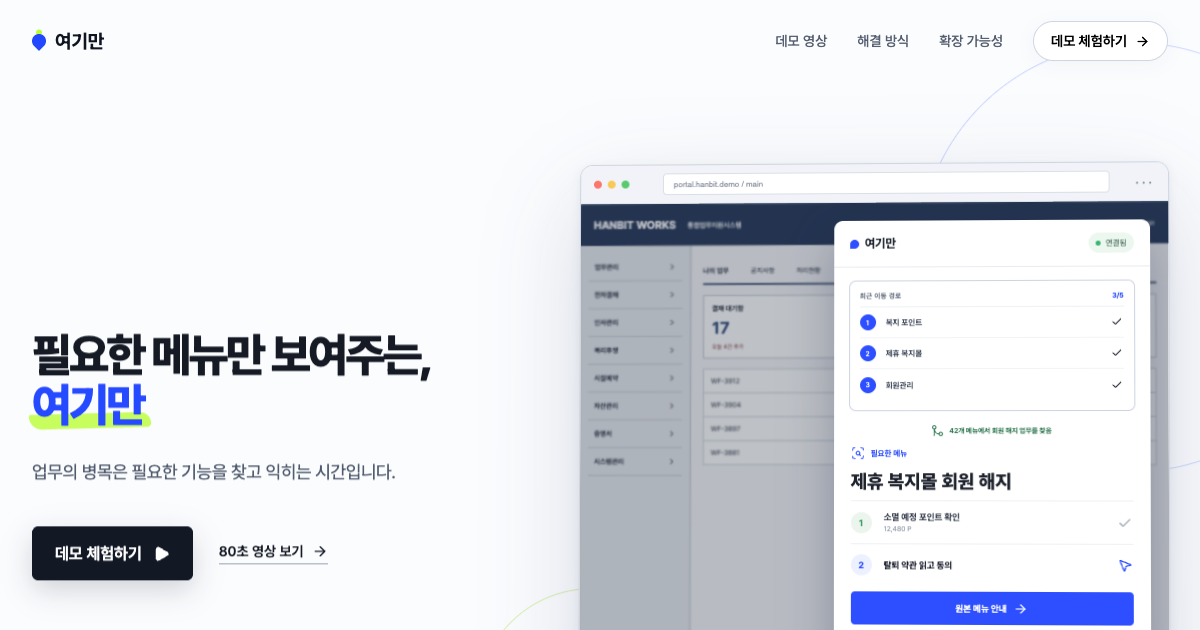
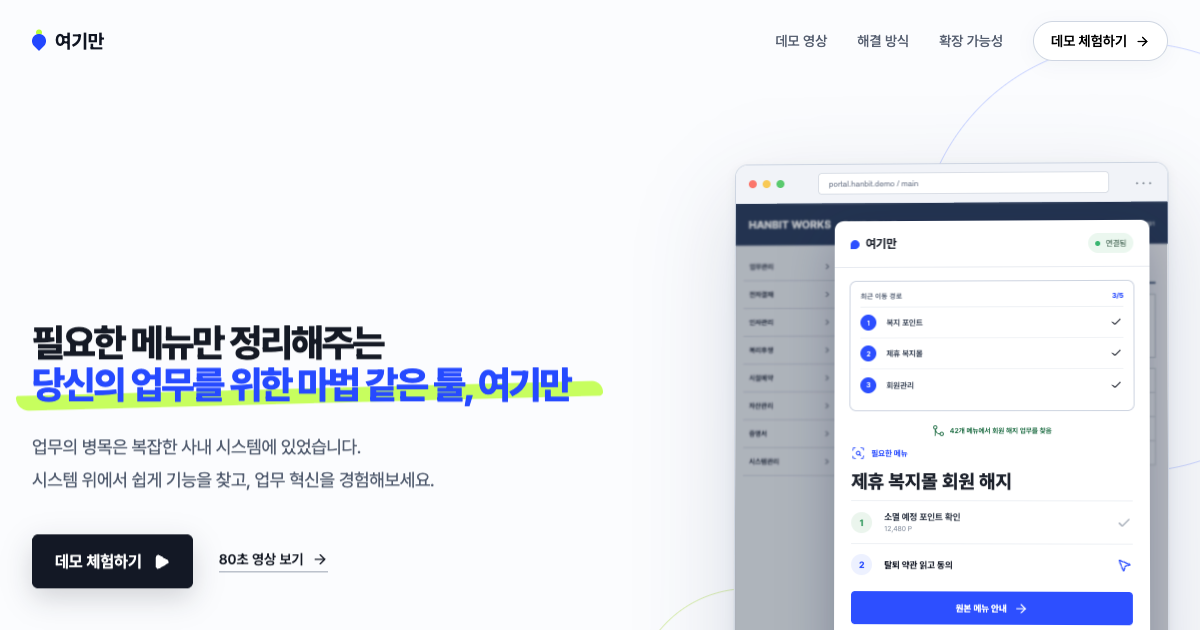
Strengthen landing message and expansion story

diff --git a/src/styles.css b/src/styles.css
@@ -24,6 +24,7 @@ a { color: inherit; text-decoration: none; }
 
 .landing { overflow: hidden; background: #fbfcfe; }
 .landing h1,.landing h2,.landing h3,.landing p { word-break: keep-all; }
+.keep-together { white-space: nowrap; }
 .landing-nav {
   width: min(1360px, calc(100% - 64px)); height: 82px; margin: 0 auto;
   display: flex; align-items: center; justify-content: space-between; position: relative; z-index: 20;
@@ -36,7 +37,7 @@ a { color: inherit; text-decoration: none; }
 .nav-demo { height: 40px; border: 1px solid #cfd6e2; background: #fff; border-radius: 99px; padding: 0 17px; display: flex; align-items: center; gap: 8px; font-weight: 600; box-shadow: 0 4px 18px rgba(23, 37, 69, .04); transition: transform .2s, border-color .2s; }
 .nav-demo:hover { transform: translateY(-2px); border-color: #9ba8bc; }
 
-.hero-section { width: min(1360px, calc(100% - 64px)); min-height: 760px; margin: 0 auto; display: grid; grid-template-columns: .96fr 1.14fr; gap: 48px; align-items: center; padding: 64px 0 100px; }
+.hero-section { width: min(1360px, calc(100% - 64px)); min-height: 760px; margin: 0 auto; display: grid; grid-template-columns: 1.2fr .8fr; gap: 48px; align-items: center; padding: 64px 0 100px; }
 .hero-kicker, .section-index { font-size: 12px; line-height: 1; font-weight: 700; letter-spacing: .13em; color: var(--blue); text-transform: uppercase; }
 .hero-copy h1 { font-family: inherit; margin: 22px 0 24px; font-size: clamp(48px, 4.55vw, 70px); line-height: 1.1; letter-spacing: -.055em; font-weight: 800; white-space: nowrap; }
 .hero-copy h1 span { position: relative; z-index: 1; color: var(--blue); }
@@ -127,15 +128,16 @@ footer { min-height: 118px; border-top: 1px solid #dce2eb; width: min(1360px, ca
 footer p { margin: 0; }footer small { justify-self: end; }
 
 /* Landing: problem → solution → work map */
-.hero-copy h1 { font-size: clamp(46px, 3.8vw, 58px); white-space: nowrap; }
+.hero-copy h1 { font-size: clamp(38px, 3.05vw, 44px); white-space: nowrap; }
 .mobile-break { display: none; }
 .hero-copy h1 span::after { height: 15px; }
 .hero-description { max-width: none; white-space: nowrap; }
+.hero-description span { display: block; }
 .demo-video-section,.friction-section,.focus-section,.learning-section,.platform-section { width: min(1260px, calc(100% - 64px)); margin: 0 auto; }
 
 .demo-video-section { padding: 95px 0 140px; border-top: 1px solid #dce2eb; }
 .demo-video-heading { margin-bottom: 50px; }
-.demo-video-heading h2 { margin: 0; font-size: clamp(40px, 3.7vw, 58px); line-height: 1.17; letter-spacing: -.052em; font-weight: 780; }
+.demo-video-heading h2 { margin: 0; font-size: clamp(38px, 3.2vw, 48px); line-height: 1.17; letter-spacing: -.052em; font-weight: 780; white-space: nowrap; }
 .demo-video-heading p { margin: 19px 0 0; color: #596476; font-size: 17px; line-height: 1.9; white-space: nowrap; }
 .demo-video-frame { padding: 12px; border: 1px solid #2b3548; border-radius: 16px; background: #111723; box-shadow: 0 30px 70px rgba(20, 30, 51, .18); }
 .demo-video-frame video { display: block; width: 100%; height: auto; aspect-ratio: 16 / 10; border-radius: 8px; background: #090d15; }
@@ -147,7 +149,7 @@ footer p { margin: 0; }footer small { justify-self: end; }
 .friction-copy p,.focus-heading p,.learning-heading p,.platform-heading p { white-space: nowrap; }
 .friction-proof { border-left: 4px solid var(--blue); padding: 8px 0 8px 32px; }
 .friction-proof strong { display: block; color: var(--blue); font-size: clamp(68px, 7vw, 104px); line-height: .9; letter-spacing: -.07em; }
-.friction-proof p { max-width: 400px; margin: 24px 0 15px; color: #30394a; font-size: 18px; line-height: 1.55; font-weight: 650; }
+.friction-proof p { max-width: 500px; margin: 24px 0 0; color: #30394a; font-size: 17px; line-height: 1.6; font-weight: 650; }
 .friction-proof a { display: inline-flex; align-items: center; gap: 6px; color: #6e7889; font-size: 11px; border-bottom: 1px solid #bac2cf; padding-bottom: 3px; }
 
 .focus-section { padding: 140px 0 150px; }
@@ -180,7 +182,7 @@ footer p { margin: 0; }footer small { justify-self: end; }
 .control-note { margin: 28px 0 0; color: #3f4a5d; font-size: 17px; line-height: 1.7; text-align: center; font-weight: 600; }
 
 .learning-section { width: min(1360px, calc(100% - 64px)); padding: 112px max(50px, 6vw) 90px; color: #fff; background: #111723; }
-.learning-heading { display: grid; grid-template-columns: 1fr .82fr; gap: 90px; align-items: end; }
+.learning-heading { display: block; }
 .learning-heading p { color: #b7c0cf; }
 .learning-flow { margin-top: 72px; display: grid; grid-template-columns: repeat(4,1fr); border: 1px solid #3b4555; }
 .learning-flow article { min-height: 190px; position: relative; padding: 31px 27px; border-right: 1px solid #3b4555; }
@@ -200,7 +202,7 @@ footer p { margin: 0; }footer small { justify-self: end; }
 .platform-list article > svg { color: var(--blue); }
 .platform-list span { display: inline-block; color: var(--blue); font-size: 10px; font-weight: 750; letter-spacing: .06em; }
 .platform-list h3 { margin: 8px 0 9px; font-size: 22px; }
-.platform-list p { margin: 0; color: #687386; font-size: 14px; line-height: 1.75; }
+.platform-list p { margin: 0; color: #687386; font-size: 16px; line-height: 1.75; }
 
 /* Demo frame */
 .demo-shell { background: #e8ecf2; height: 100vh; min-width: 1100px; overflow: hidden; font-family: 'Pretendard Variable', Pretendard, sans-serif; }
@@ -294,6 +296,7 @@ footer p { margin: 0; }footer small { justify-self: end; }
   .statement-copy { grid-template-columns: 1fr; gap: 30px; }.how-section { grid-template-columns: 1fr; gap: 70px; }.handoff-line { grid-template-columns: 1fr 110px 1fr; }
   .friction-section,.focus-heading,.learning-heading,.platform-section { grid-template-columns: 1fr; gap: 54px; }
   .demo-video-heading p,.friction-copy p,.focus-heading p,.learning-heading p,.platform-heading p { white-space: normal; }
+  .demo-video-heading h2 { white-space: normal; }
   .learning-section { padding-left: 50px; padding-right: 50px; }
   .learning-flow { grid-template-columns: repeat(2,1fr); }.learning-flow article:nth-child(2) { border-right: 0; }.learning-flow article:nth-child(-n+2) { border-bottom: 1px solid #3b4555; }
 }
@@ -301,13 +304,14 @@ footer p { margin: 0; }footer small { justify-self: end; }
   .landing-nav { height: 70px; }.nav-links a { display: none; }.hero-section { width: calc(100% - 36px); padding: 55px 0 80px; min-height: 0; }.hero-copy h1 { font-size: 44px; }.hero-description { font-size: 15px; }.hero-actions { flex-direction: column; gap: 18px; }.browser-body { height: 420px; }.preview-panel { width: 75%; }.legacy-mini-body { grid-template-columns: 82px 1fr; }.human-badge { right: -4px; }
   .statement-section,.how-section,.access-section,.final-cta-section,.demo-video-section,.friction-section,.focus-section,.learning-section,.platform-section { width: calc(100% - 36px); }.statement-section,.how-section { padding: 95px 0; }.statement-copy h2,.how-heading h2,.access-section h2,.final-cta-section h2 { font-size: 38px; }.handoff-line { grid-template-columns: 1fr; }.baton { height: 64px; transform: none; }.baton > * { transform: none; }.role { padding: 28px 15px; }.access-section { padding: 70px 30px; }.final-cta-section { flex-direction: column; align-items: flex-start; min-height: 480px; justify-content: center; }.final-cta { height: 62px; }
   .final-cta-section h2 span { white-space: normal; }
-  .hero-copy h1 { font-size: 31px; line-height: 1.18; }.hero-copy h1 span { font-size: 1.35em; }.hero-copy h1 span::after { height: 10px; }.hero-description { white-space: normal; }.mobile-break { display: block; }
+  .hero-copy h1 { font-size: 29px; line-height: 1.2; }.hero-copy h1 span { font-size: 1.08em; }.hero-copy h1 span::after { height: 10px; }.hero-description { white-space: normal; }.hero-description span { margin-bottom: 5px; }.mobile-break { display: block; }
   .demo-video-section,.friction-section,.focus-section,.platform-section { padding: 95px 0; }.demo-video-heading h2,.friction-copy h2,.focus-heading h2,.learning-heading h2,.platform-heading h2 { font-size: 38px; }.demo-video-heading p,.friction-copy p,.focus-heading p,.learning-heading p,.platform-heading p { font-size: 15px; }
   .demo-video-heading { margin-bottom: 32px; }.demo-video-frame { padding: 5px; border-radius: 10px; }.demo-video-frame video { border-radius: 6px; }
   .friction-proof { padding-left: 22px; }.friction-proof strong { font-size: 76px; }
   .focus-compare { grid-template-columns: 1fr; gap: 18px; margin-top: 50px; }.compare-arrow { transform: rotate(90deg); }.menu-noise,.menu-focus { min-height: 0; padding: 24px; }.noise-list { grid-template-columns: repeat(2,1fr); }
   .control-policy { grid-template-columns: 1fr; }.control-policy > div { min-height: 100px; padding: 18px; }.policy-arrow { transform: rotate(90deg); }.control-note { text-align: left; line-height: 1.7; }
   .learning-section { padding: 82px 25px 60px; }.learning-flow { grid-template-columns: 1fr; margin-top: 50px; }.learning-flow article { min-height: 175px; border-right: 0; border-bottom: 1px solid #3b4555; }.learning-flow article:nth-child(2) { border-right: 0; }.learning-flow article:last-child { border-bottom: 0; }.learning-insight { grid-template-columns: 35px 1fr; padding: 21px; }
+  .learning-heading h2 { font-size: 32px; }
   .platform-section { gap: 40px; }.platform-list article { padding-left: 8px; padding-right: 8px; }
   footer { width: calc(100% - 36px); grid-template-columns: 1fr; gap: 9px; padding: 30px 0; }footer small { justify-self: start; }.browser-frame { transform: none; }
 }

diff --git a/src/Landing.tsx b/src/Landing.tsx
@@ -4,7 +4,6 @@ import {
   Check,
   ChevronRight,
   Database,
-  ExternalLink,
   GitMerge,
   Globe2,
   Monitor,
@@ -71,11 +70,12 @@ export function Landing({ onDemo }: LandingProps) {
       <section className="hero-section">
         <div className="hero-copy hero-reveal">
           <h1>
-            필요한 메뉴만 보여주는,
-            <br /><span>여기만</span>
+            필요한 메뉴만 정리해주는
+            <br /><span>당신의 업무를 위한<br className="mobile-break" /> 마법 같은 툴, 여기만</span>
           </h1>
           <p className="hero-description">
-            업무의 병목은 필요한 기능을 찾고 익히는 시간입니다.
+            <span>업무의 병목은 복잡한 사내 시스템에 있었습니다.</span>
+            <span>시스템 위에서 쉽게 기능을 찾고, 업무 혁신을 경험해보세요.</span>
           </p>
           <div className="hero-actions">
             <button className="primary-cta" onClick={onDemo}>
@@ -153,8 +153,7 @@ export function Landing({ onDemo }: LandingProps) {
 
       <section className="demo-video-section" id="demo-video">
         <div className="demo-video-heading">
-          <h2>80초 데모를 확인하세요.</h2>
-          <p>사이트 탐색부터 회원 해지 목적 발견, 원본 약관 확인과 최종 신청까지 전체 POC 과정을 80초에 담았습니다.</p>
+          <h2>80초 만에 마법같이 간편해지는 데모를 확인해보세요.</h2>
         </div>
         <div className="demo-video-frame">
           <video controls playsInline preload="metadata" poster={demoPoster} width="1440" height="900" aria-label="여기만 회원 해지 POC 데모 영상">
@@ -166,15 +165,12 @@ export function Landing({ onDemo }: LandingProps) {
 
       <section className="friction-section" id="problem">
         <div className="friction-copy">
-          <h2>신입사원과 숙련자 모두에게<br />복잡한 사내 시스템은 어려운 벽입니다.</h2>
-          <p>익숙하지 않은 업무를 처리할 때마다 메뉴 위치와 순서를 다시 찾아야 합니다.</p>
+          <h2>신입사원과 숙련자 모두에게<br />복잡한 사내 시스템은<br />어려운 벽입니다.</h2>
+          <p>매일 접속하는 시스템도 복잡하다면 여전히 업무를 가로막는 병목이 됩니다.</p>
         </div>
         <div className="friction-proof">
           <strong>1,100회+</strong>
-          <p>업무를 하며 하루 평균 앱 사이를 오간 횟수입니다.</p>
-          <a href="https://www.pega.com/about/news/press-releases/research-reveals-employees-switch-apps-over-1100-times-day" target="_blank" rel="noreferrer">
-            Pega, 약 500만 시간 데스크톱 활동 분석 <ExternalLink size={13} />
-          </a>
+          <p>전 세계 직장인들이 업무를 위해 복잡한 시스템 속에서 하루 동안 클릭한 횟수입니다.</p>
         </div>
       </section>
 
@@ -214,36 +210,35 @@ export function Landing({ onDemo }: LandingProps) {
 
       <section className="learning-section" id="learning">
         <div className="learning-heading">
-          <h2>사용 기록이 쌓일수록<br />복잡한 업무용 시스템이 쉬워집니다.</h2>
-          <p>여러 사람의 사용 기록을 모아 필요한 기능을 더 빨리 찾습니다.</p>
+          <h2>여러 사람들의 사용 기록이 쌓일수록<br />복잡한 <span className="keep-together">시스템이 더 쉬워집니다.</span></h2>
+          <p>사람들이 자주 사용하는 메뉴와 처리 방법을 학습해 더 쉽고 빠른 업무 환경을 만듭니다.</p>
         </div>
 
         <div className="learning-flow" aria-label="복잡한 업무용 시스템을 쉽게 만드는 과정">
           <article><span>1</span><Monitor size={21} /><h3>버튼과 메뉴의 위치를 파악합니다.</h3></article>
           <article><span>2</span><Database size={21} /><h3>자주 사용하는 처리 순서를 모읍니다.</h3></article>
-          <article><span>3</span><GitMerge size={21} /><h3>AI가 같은 업무끼리 정리합니다.</h3></article>
-          <article><span>4</span><ShieldCheck size={21} /><h3>운영자 검토 후 직원에게 제공합니다.</h3></article>
+          <article><span>3</span><GitMerge size={21} /><h3>주로 사용하는 메뉴 패턴을 학습합니다.</h3></article>
+          <article><span>4</span><ShieldCheck size={21} /><h3>Agent 개발과 사내 시스템 개선에 활용합니다.</h3></article>
         </div>
 
         <div className="learning-insight">
           <Route size={25} />
-          <p><b>사용 기록은 교육과 시스템 개선에도 활용할 수 있습니다.</b><span>자주 쓰는 기능과 반복해서 헤매는 구간을 찾아 개선 우선순위를 정합니다.</span></p>
+          <p><b>사용 기록은 Agent 개발과 사내 시스템 개선에 사용 가능합니다.</b><span>직원들이 자주 쓰는 기능과 반복해서 막히는 구간을 바탕으로 더 나은 시스템을 설계합니다.</span></p>
         </div>
       </section>
 
       <section className="platform-section">
         <div className="platform-heading">
-          <h2>웹에서 시작해<br />사내 실행 프로그램까지 확장할 수 있습니다.</h2>
-          <p>웹과 실행 프로그램의 버튼과 메뉴를 같은 방식으로 정리합니다.</p>
+          <h2>복잡한 시스템이라면<br />웹과 앱 어디로든 확장 가능합니다.</h2>
         </div>
         <div className="platform-list">
           <article>
             <Globe2 size={22} />
-            <div><h3>웹 사이트 · 구현 완료</h3><p>Chrome 확장 프로그램이 화면의 버튼과 메뉴를 읽어 필요한 기능을 찾습니다.</p></div>
+            <div><h3>웹 사이트용 여기만</h3><p>Chrome 확장 프로그램이 버튼과 메뉴를 읽어 필요한 기능을 찾고, 마법처럼 업무 시간을 단축합니다.</p></div>
           </article>
           <article>
             <AppWindow size={22} />
-            <div><h3>사내 실행 프로그램 · 확장 예정</h3><p>운영체제의 접근성 기능으로 사내 프로그램의 버튼과 메뉴도 파악할 수 있습니다.</p></div>
+            <div><h3>사내 앱용 여기만</h3><p>복잡한 사내 프로그램도 필요한 기능만 정리해 더 빠른 업무와 새로운 혁신을 만듭니다.</p></div>
           </article>
         </div>
       </section>
@@ -259,7 +254,7 @@ export function Landing({ onDemo }: LandingProps) {
 
       <footer>
         <span className="wordmark"><i className="wordmark-dot" /> 여기만</span>
-        <small>2026 SK AI Hackathon · AI Idea League</small>
+        <small>2026 SK AI Hackathon · AI Solution League</small>
       </footer>
     </main>
   )

diff --git a/index.html b/index.html
@@ -4,13 +4,13 @@
     <meta charset="UTF-8" />
     <meta name="viewport" content="width=device-width, initial-scale=1.0" />
     <meta name="theme-color" content="#f7f9fc" />
-    <meta name="description" content="여기만 — 복잡한 사내 시스템에서 필요한 메뉴만 보여주는 업무 AI입니다." />
-    <meta property="og:title" content="여기만 — 필요한 메뉴만 보여주는 업무 AI" />
+    <meta name="description" content="여기만 — 필요한 메뉴만 정리해주는 당신의 업무를 위한 마법 같은 툴입니다." />
+    <meta property="og:title" content="여기만 — 당신의 업무를 위한 마법 같은 툴" />
     <meta property="og:description" content="42개 메뉴를 필요한 3단계로 정리하고 원본 버튼의 위치를 안내합니다." />
     <meta property="og:image" content="https://raw.githubusercontent.com/stpcoder/yogiman-ai/main/qa/screenshots/landing-capture-1200x630.png" />
     <meta property="og:type" content="website" />
     <meta name="twitter:card" content="summary_large_image" />
-    <title>여기만 — 필요한 메뉴만 보여주는 업무 AI</title>
+    <title>여기만 — 당신의 업무를 위한 마법 같은 툴</title>
   </head>
   <body>
     <div id="root"></div>

diff --git a/README.md b/README.md
@@ -2,10 +2,10 @@
 
 # 여기만
 
-### 필요한 메뉴만 보여주는, 여기만
+### 필요한 메뉴만 정리해주는 당신의 업무를 위한 마법 같은 툴, 여기만
 
-업무의 병목은 필요한 기능을 찾고 익히는 시간입니다.<br />
-여기만은 42개의 복잡한 메뉴를 필요한 3단계로 정리합니다.
+업무의 병목은 복잡한 사내 시스템에 있었습니다.<br />
+시스템 위에서 쉽게 기능을 찾고 업무 혁신을 경험해보세요.
 
 [실행 데모](https://stpcoder.github.io/yogiman-ai/#/demo) · [전체 영상](https://github.com/stpcoder/yogiman-ai/releases/download/v0.2.1/yogiman-demo.mp4) · [확장 프로그램 다운로드](https://github.com/stpcoder/yogiman-ai/releases/latest)
 
@@ -131,7 +131,7 @@ npm run capture
 | `src/intent-engine.ts` | 사용자 목적과 업무 지도를 비교하는 코드 |
 | `extension/` | 설치 가능한 Chrome Manifest V3 확장 프로그램 |
 | `docs/ARCHITECTURE.md` | 업무 지도 생성과 전사 적용 구조 |
-| `SUBMISSION_DRAFT.md` | AI Idea 리그 제출 글 |
+| `SUBMISSION_DRAFT.md` | AI Solution 리그 제출 글 |
 | `PRODUCT_PLAN.md` | 제품 범위와 파일럿 계획 |
 | `qa/video/yogiman-demo.mp4` | Playwright로 녹화한 전체 시연 영상 |
 

diff --git a/SUBMISSION_DRAFT.md b/SUBMISSION_DRAFT.md
@@ -1,4 +1,4 @@
-# AI Idea 리그 제출 초안
+# AI Solution 리그 제출 초안
 
 ## 제목
 
